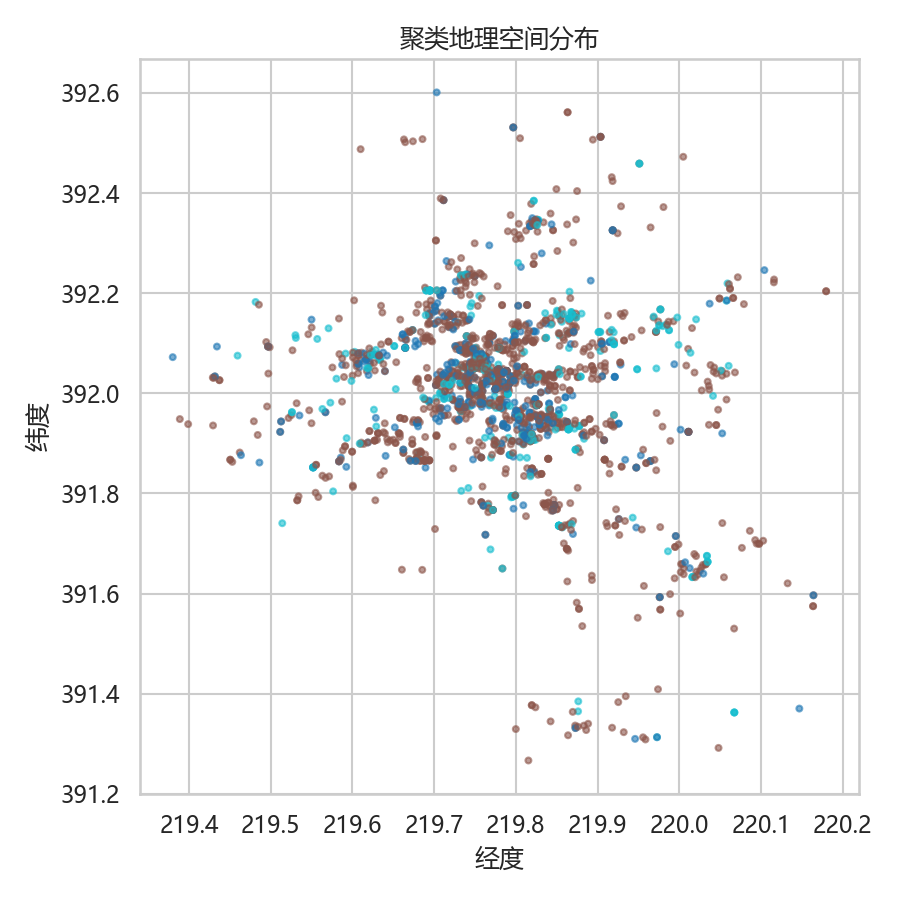
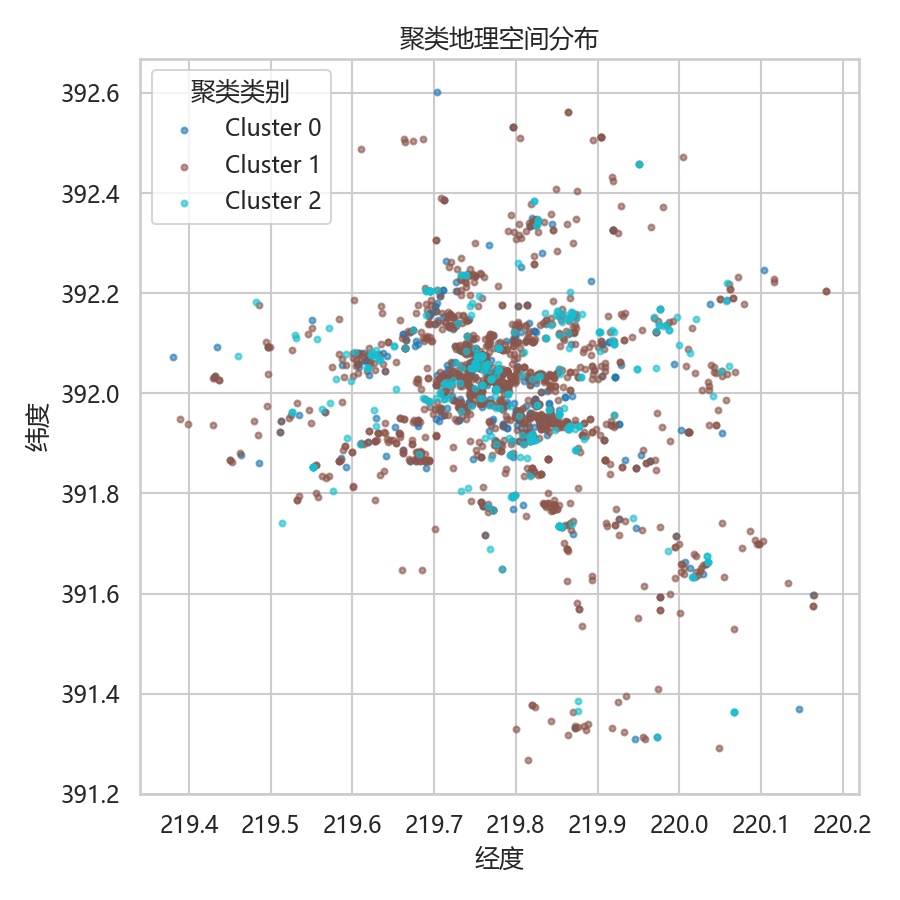
feat(geo_scatter): 增加图例

diff --git a/section5_advanced.py b/section5_advanced.py
@@ -277,14 +277,19 @@ def main() -> None:
 
     plt.figure(figsize=(6, 6))
     scatter_df = cell_meta.sample(min(3000, len(cell_meta)), random_state=42)
-    plt.scatter(
-        scatter_df["LONGITUDE"],
-        scatter_df["LATITUDE"],
-        c=scatter_df["cluster"],
-        cmap="tab10",
-        s=8,
-        alpha=0.6,
-    )
+    unique_clusters = np.sort(scatter_df["cluster"].unique())
+    colors = plt.cm.tab10(np.linspace(0, 1, len(unique_clusters)))
+    for color, cluster_id in zip(colors, unique_clusters):
+        subset = scatter_df[scatter_df["cluster"] == cluster_id]
+        plt.scatter(
+            subset["LONGITUDE"],
+            subset["LATITUDE"],
+            s=8,
+            alpha=0.6,
+            color=color,
+            label=f"Cluster {cluster_id}",
+        )
+    plt.legend(title="\u805a\u7c7b\u7c7b\u522b", loc="best")
     plt.title("\u805a\u7c7b\u5730\u7406\u7a7a\u95f4\u5206\u5e03")
     plt.xlabel("\u7ecf\u5ea6")
     plt.ylabel("\u7eac\u5ea6")
